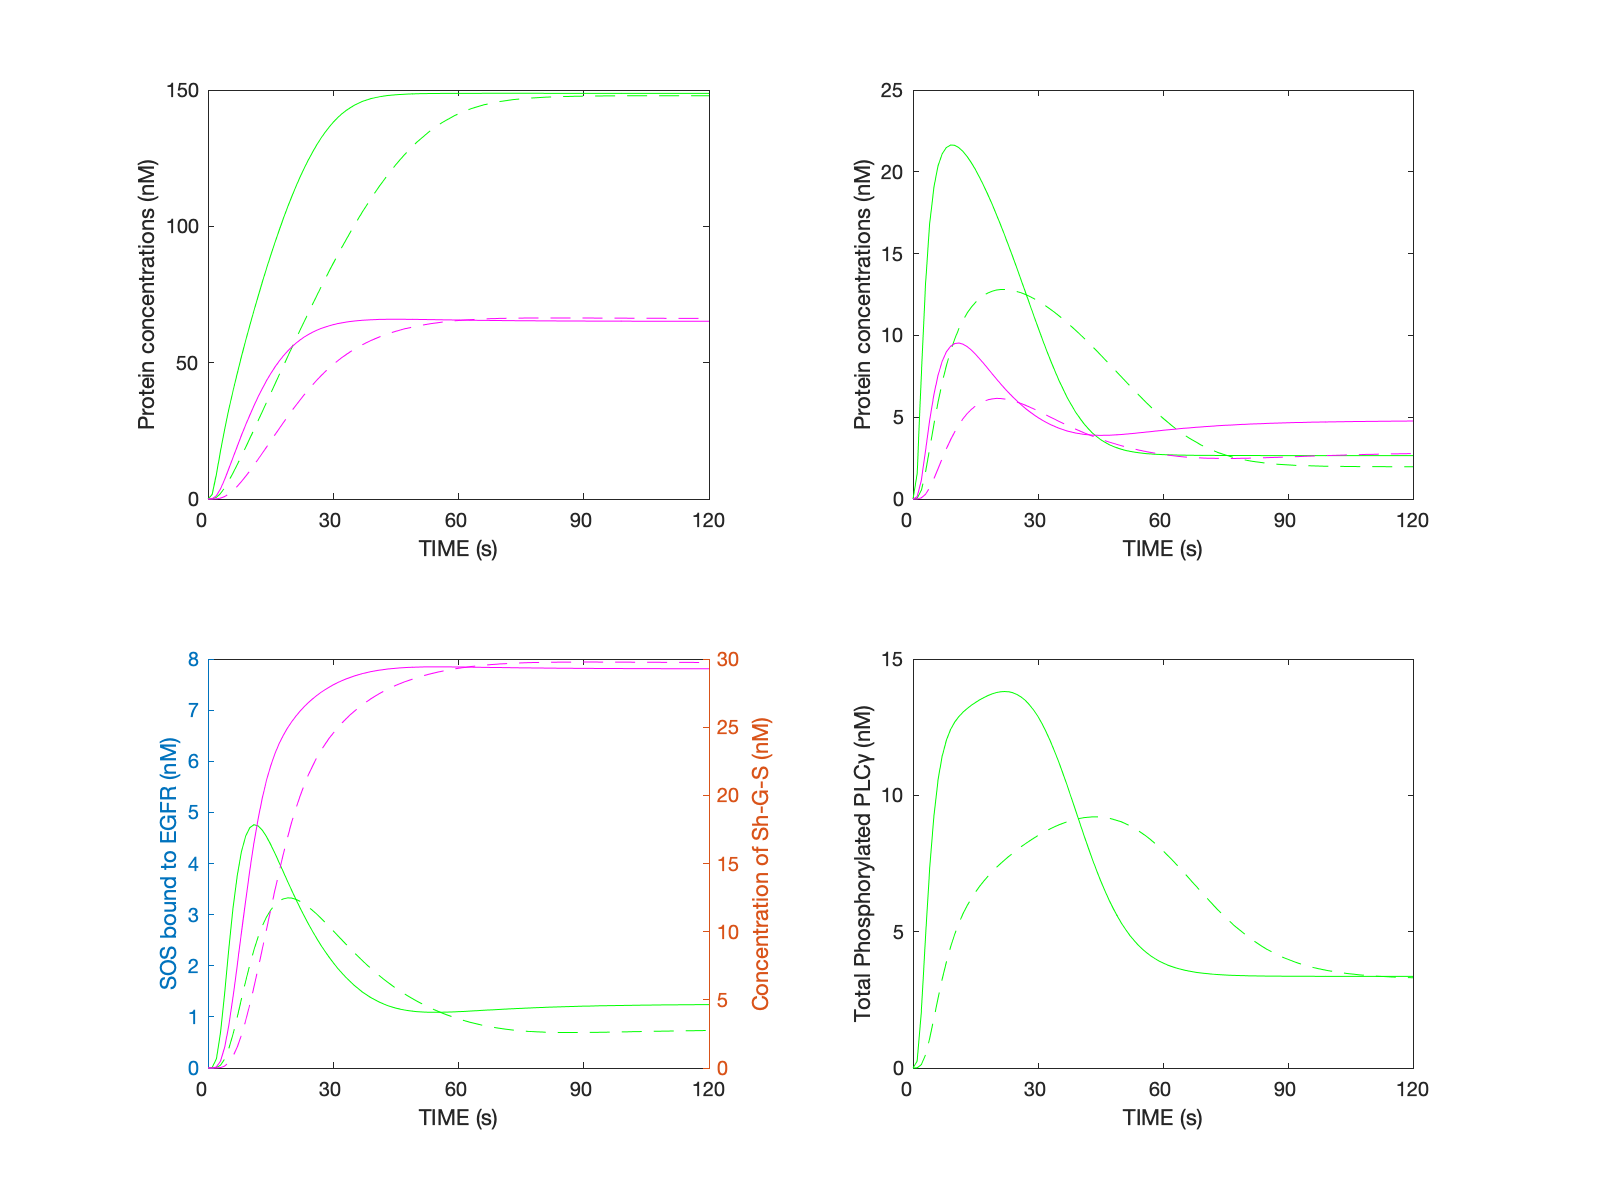
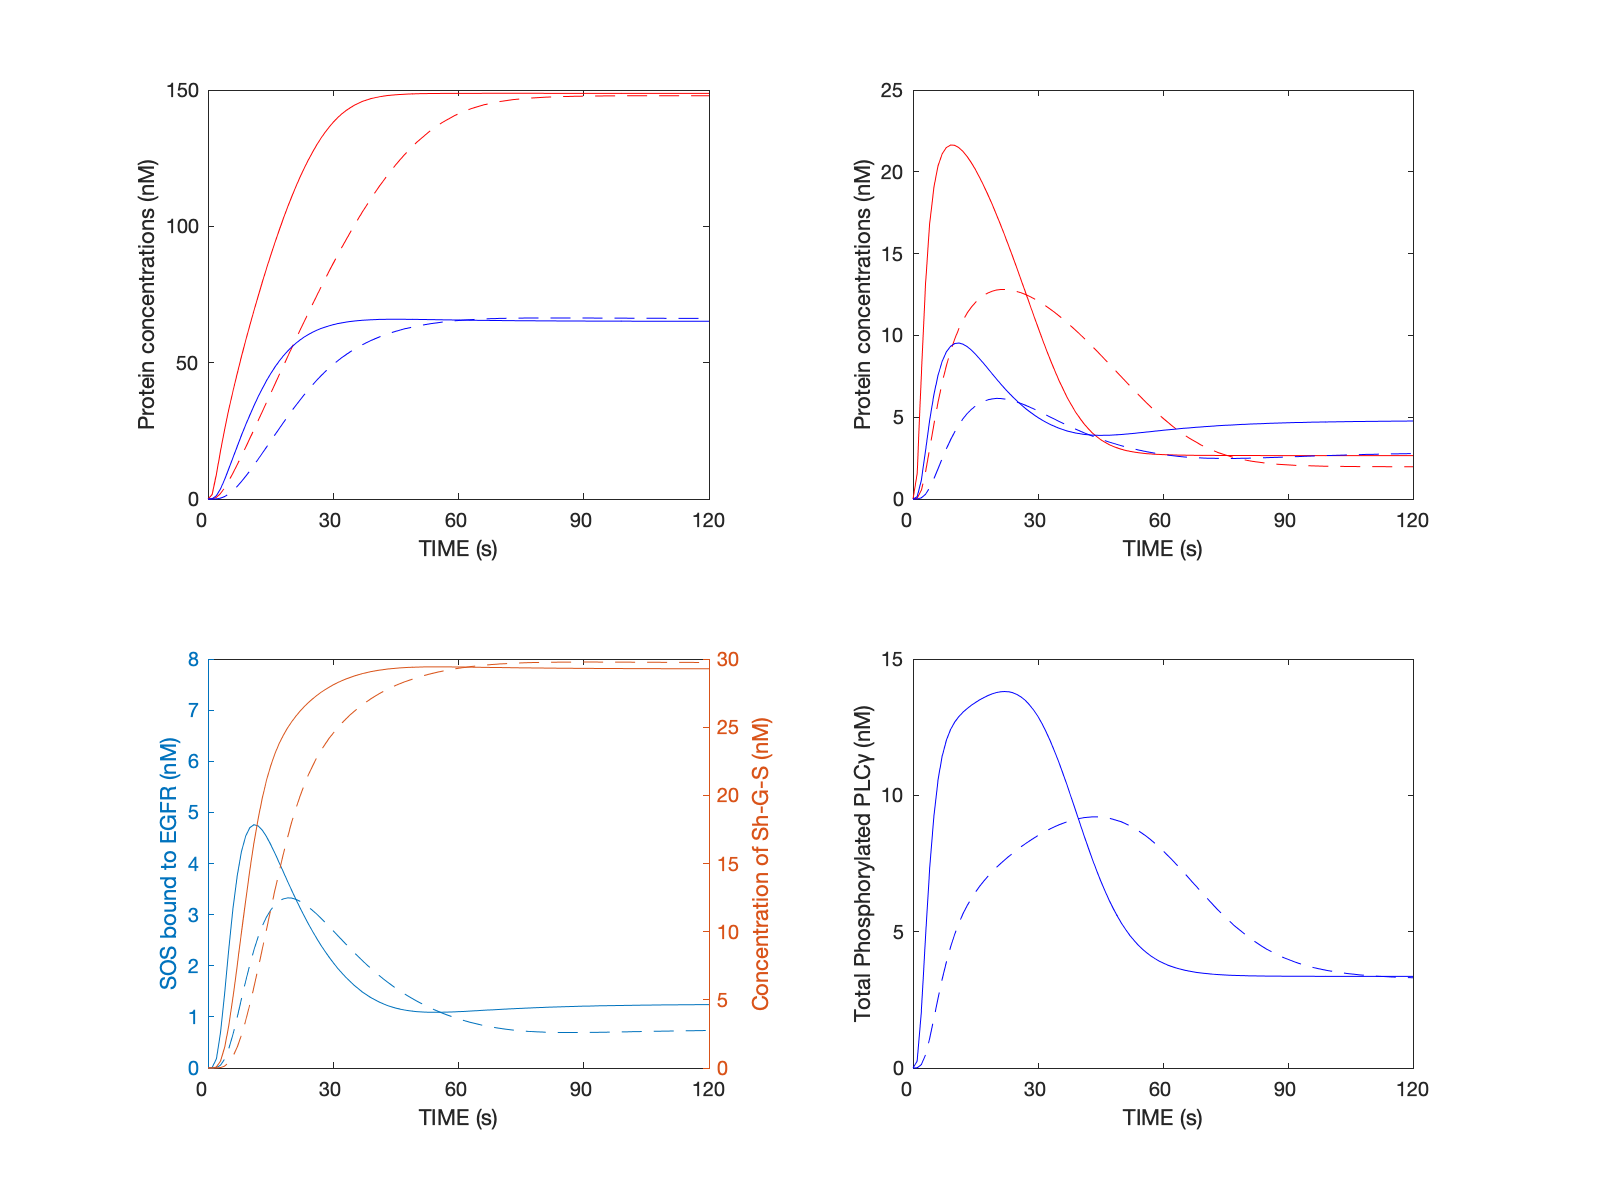
Update plot style

diff --git a/plotFunc.m b/plotFunc.m
@@ -2,14 +2,14 @@ figure('Renderer', 'painters', 'Position', [0 0 800 600]);
 
 subplot(2,2,1);
 hold on;
-plot(t,totalShc(:,1),'g');
-plot(t,totalShc(:,2),'g--');
-plot(t,totalGrb2(:,1),'m');
-plot(t,totalGrb2(:,2),'m--');
-xlim([0 120]);
+plot(t,totalShc(:,1),'r-');
+plot(t,totalShc(:,2),'r--');
+plot(t,totalGrb2(:,1),'b-');
+plot(t,totalGrb2(:,2),'b--');
 set(gca, 'Xtick', [0 30 60 90 120],...
     'Xticklabel', [0 30 60 90 120]);
 ylim([0 150]);
+xlim([0 120]);
 xlabel("TIME (s)");
 ylabel("Protein concentrations (nM)");
 hold off;
@@ -17,13 +17,14 @@ box on;
 
 subplot(2,2,2);
 hold on;
-plot(t,RSh(:,1),'g');
-plot(t,RSh(:,2),'g--');
-plot(t,RGrb2(:,1),'m');
-plot(t,RGrb2(:,2),'m--');
-xlim([0 120]);
+plot(t,RSh(:,1),'r-');
+plot(t,RSh(:,2),'r--');
+plot(t,RGrb2(:,1),'b-');
+plot(t,RGrb2(:,2),'b--');
 set(gca, 'Xtick', [0 30 60 90 120],...
     'Xticklabel', [0 30 60 90 120]);
+ylim([0 150]);
+xlim([0 120]);
 ylim([0 25]);
 xlabel("TIME (s)");
 ylabel("Protein concentrations (nM)");
@@ -33,18 +34,20 @@ box on;
 subplot(2,2,3);
 hold on;
 yyaxis left;
-plot(t,totalSOS(:,1),'g');
-plot(t,totalSOS(:,2),'g--');
-xlim([0 120]);
+plot(t,totalSOS(:,1),'-');
+plot(t,totalSOS(:,2),'--');
 set(gca, 'Xtick', [0 30 60 90 120],...
     'Xticklabel', [0 30 60 90 120]);
+ylim([0 150]);
+xlim([0 120]);
 xlabel("TIME (s)");
 ylim([0 8]);
 ylabel("SOS bound to EGFR (nM)");
 
 yyaxis right;
-plot(t,ShGS(:,1),'m');
-plot(t,ShGS(:,2),'m--');
+plot(t,ShGS(:,1),'-');
+plot(t,ShGS(:,2),'--');
+
 xlim([0 120]);
 ylim([0 30]);
 ylabel("Concentration of Sh-G-S (nM)");
@@ -53,11 +56,12 @@ box on;
 
 subplot(2,2,4);
 hold on;
-plot(t,PLCgamma(:,1),'g');
-plot(t,PLCgamma(:,2),'g--');
-xlim([0 120]);
+plot(t,PLCgamma(:,1),'b-');
+plot(t,PLCgamma(:,2),'b--');
 set(gca, 'Xtick', [0 30 60 90 120],...
     'Xticklabel', [0 30 60 90 120]);
+ylim([0 150]);
+xlim([0 120]);
 ylim([0 15]);
 xlabel("TIME (s)");
 ylabel("Total Phosphorylated PLCγ (nM)");
